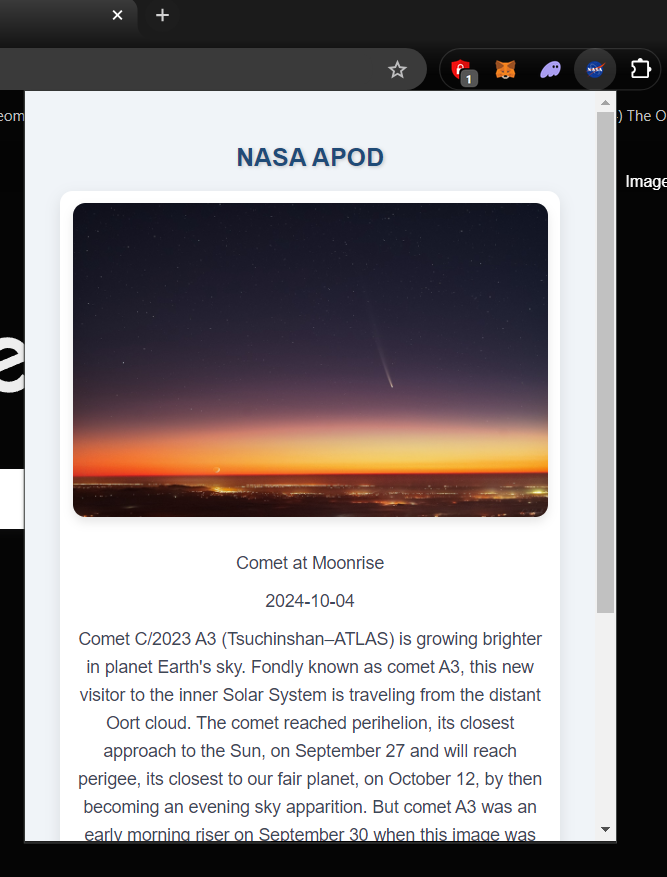
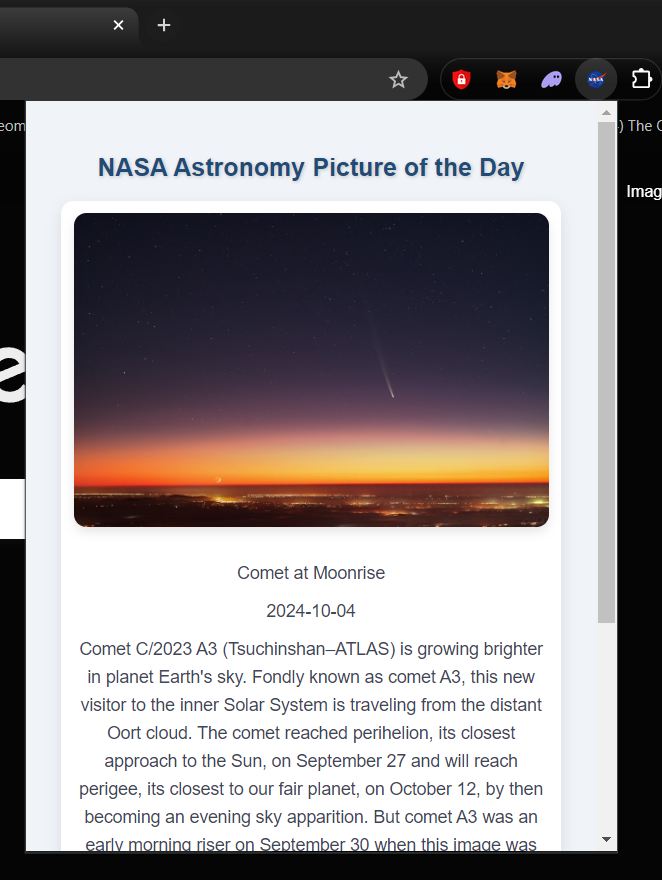
Update Screenshot

Changed region(s): [[0.0, 0.0, 1.0, 0.9852], [0.0, 0.3694, 0.0604, 0.4618], [0.0, 0.5234, 0.0604, 0.6157]]

diff --git a/popup.html b/popup.html
@@ -7,7 +7,7 @@
   <link rel="stylesheet" href="styles.css">
 </head>
 <body>
-  <h1>NASA APOD</h1>
+  <h1>NASA Astronomy Picture of the Day</h1>
   <div id="apod-content">
     <img id="apod-image" alt="Astronomy Picture of the Day" />
     <p id="apod-title"></p>
